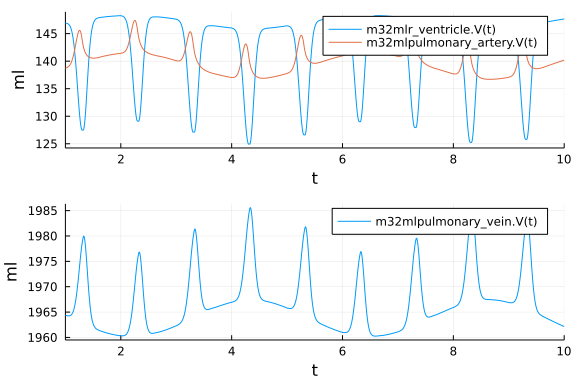
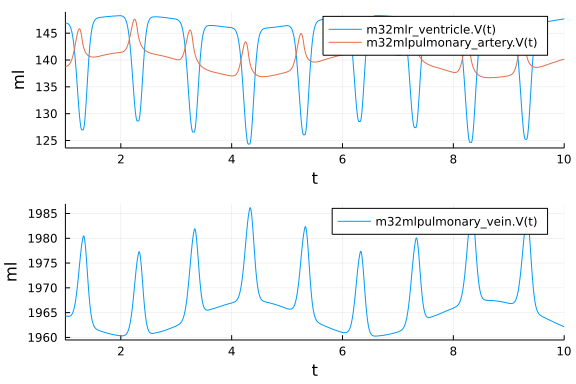
update lung demo

diff --git a/demo/simple_lung/README.md b/demo/simple_lung/README.md
@@ -2,7 +2,7 @@
 
 A simple model with a ventricle, an artery and a vein, connected with some resistance between them.
 The vein is under a cyclic pressure immitating ventilation. 
-The simulates a simple arterial pressure variation.
+This simulates a simple arterial pressure variation.
 
 ```julia
 using OrdinaryDiffEq, ModelingToolkit, CardiovascularModels, Plots
@@ -16,7 +16,7 @@ D = Differential(t)
 
 @named card_driver = Driver()
 
-@named pulmonary_valve = Valve(R = 6e6)
+@named pulmonary_valve = Valve(R = 4e6)
 
 # Pulmonary artery
 @named pulmonary_artery = Vessel(Ees = 200e6, Vd = 100e-6)
@@ -107,7 +107,7 @@ plot(plot_p1, plot_p2, layout = (2,1), ylabel = "mmHg")
 ```julia
 plot_Q1 = plot(sol, vars=[(m32ml, 0, r_ventricle.in.Q), (m32ml, 0, pulmonary_artery.in.Q)], tspan =  (1,10));
 plot_Q2 = plot(sol, vars=[(m32ml, 0, pulmonary_vein.in.Q)], tspan =  (1,10));
-plot(plot_Q1, plot_Q2, layout = (2,1), ylabel = "ml")
+plot(plot_Q1, plot_Q2, layout = (2,1), ylabel = "ml/s")
 ```
 
 ![](figures/simple_lung_5_1.png)
